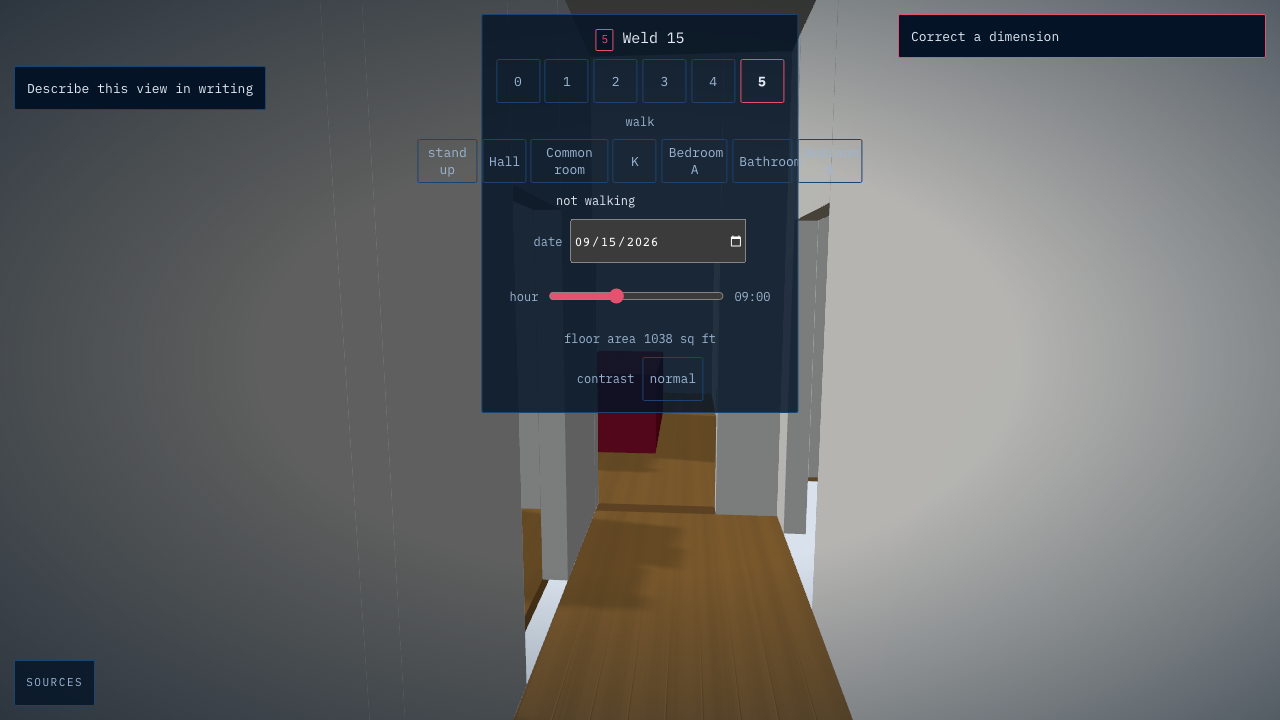
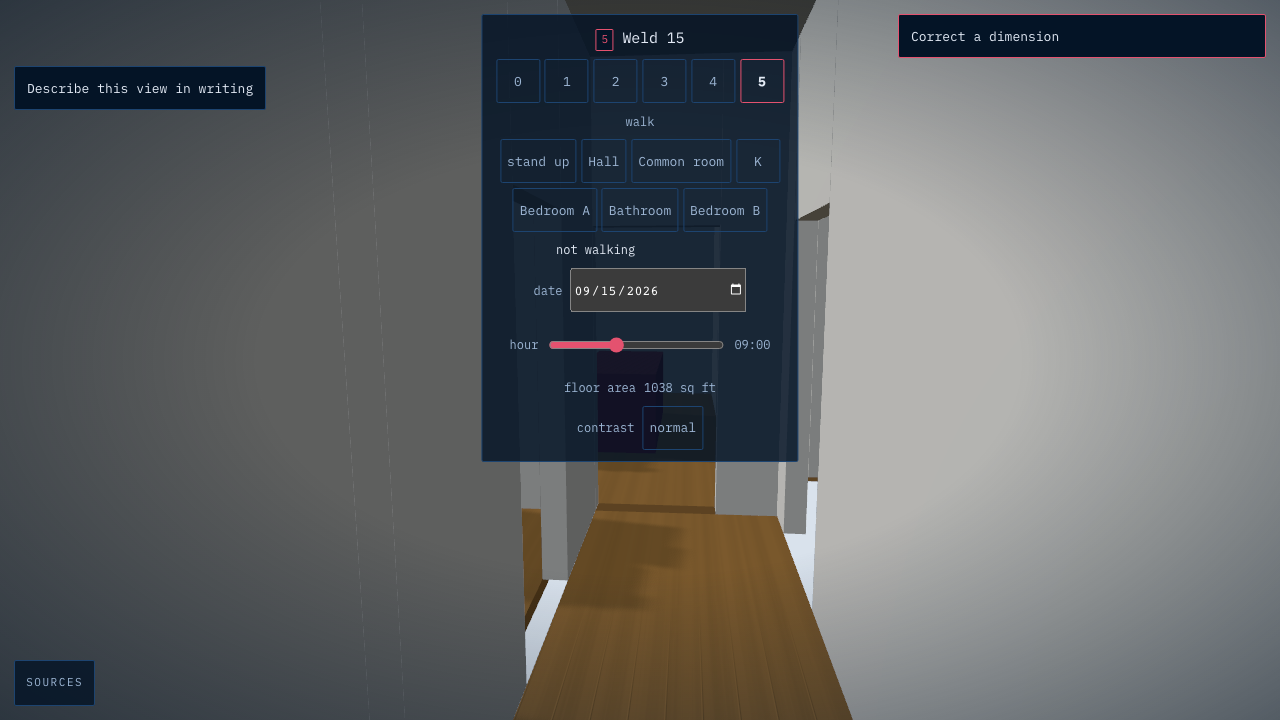
Wrap the button row too, so no control lands on the bare canvas
.hud-orbit wraps; the .hud-scrub nested inside it did not, because a flex
container defaults to nowrap. So stage 5's seven first-person buttons laid out
as one unbreakable 445 px line inside a parent Hud.tsx caps at 18 rem, and the
overflow was centred: at 1280 x 720 the HUD box runs x 481..799 and the button
row ran x 417..863, putting `stand up`/`leave` and `Bedroom B` 64 px outside it
on each side. .hud-scrub button sets `background: transparent`, so those two
painted their glyphs straight onto the WebGL frame -- which is what MASTER.md's
"text over the void always sits on --chip-scan, never directly on the gradient"
rules out, and standing in the hall put "Bedroom B" over lit plaster.

Reproduced identically at 1440, 1280, 1024 and 768: the overflow is 128 px at
every width, because both boxes are fixed. After the fix the row measures 288 px
inside the HUD's 317 px box at all four, wrapping to two lines downward -- which
is the behaviour Hud.tsx's FP_ROW_MAX docblock already describes, so this is the
missing half of a decision that was made rather than a new one.

Scoped to .hud-orbit rather than widening .hud-scrub itself, because the stage
scrubber's six numerals have never needed to wrap.

docs/CHECKLIST.md marks this gate PASS by walking each element's ancestor chain
to the first painted background. That finds .hud whatever the overflow, so the
method could not have seen this; it was found by measuring the boxes.
[…]

Changed region(s): [[0.3438, 0.1833, 0.625, 0.4889], [0.375, 0.5194, 0.625, 0.6417], [0.625, 0.1833, 0.6562, 0.2139]]

diff --git a/app/globals.css b/app/globals.css
@@ -260,6 +260,28 @@ button,
   color: var(--dim);
 }
 
+/* The buttons wrap too, and the wrap above is not enough on its own.
+   MEASURED, AND IT IS A FIX FOR A DEFECT THIS ROW SHIPPED. .hud-orbit wraps its own
+   three children -- label, button group, readout -- but the group is a nested flex
+   row, and a flex container defaults to `nowrap`. So the stage-5 first-person row's
+   seven buttons laid out as one unbreakable 445 px line inside a parent Hud.tsx caps
+   at 18 rem (288 px), and the overflow was centred: at 1280 x 720 the HUD box runs
+   x 481..799 and the button row ran x 417..863, putting `stand up`/`leave` and
+   `Bedroom B` 64 px outside it on each side. .hud-scrub button sets
+   `background: transparent`, so those two painted their glyphs straight onto the
+   WebGL frame -- which is what MASTER.md's "text over the void always sits on
+   --chip-scan, never directly on the gradient" rules out, and standing in the hall
+   put `Bedroom B` over lit plaster. Reproduced identically at 1440, 1280, 1024 and
+   768: the overflow is 128 px at every width, because both boxes are fixed.
+
+   Scoped to .hud-orbit rather than added to .hud-scrub itself, because the stage
+   scrubber's six numerals are 317 px and have never needed to wrap; widening that
+   rule would change a row that is not broken. Hud.tsx's FP_ROW_MAX docblock already
+   states the intent this delivers -- "the row wraps to three lines instead of one,
+   downward, where nothing is in the way" -- so this is the missing half of a
+   decision that was made, not a new one. */
+.hud-orbit .hud-scrub { flex-wrap: wrap; justify-content: center; }
+
 /* Held at a fixed width because the readout changes on every press and every frame
    of a drag, and a row that reflows as the digits change is the layout shift the
    delivery checklist rules out. The widest reading is "az -180° pol 88° 345 ft". */
